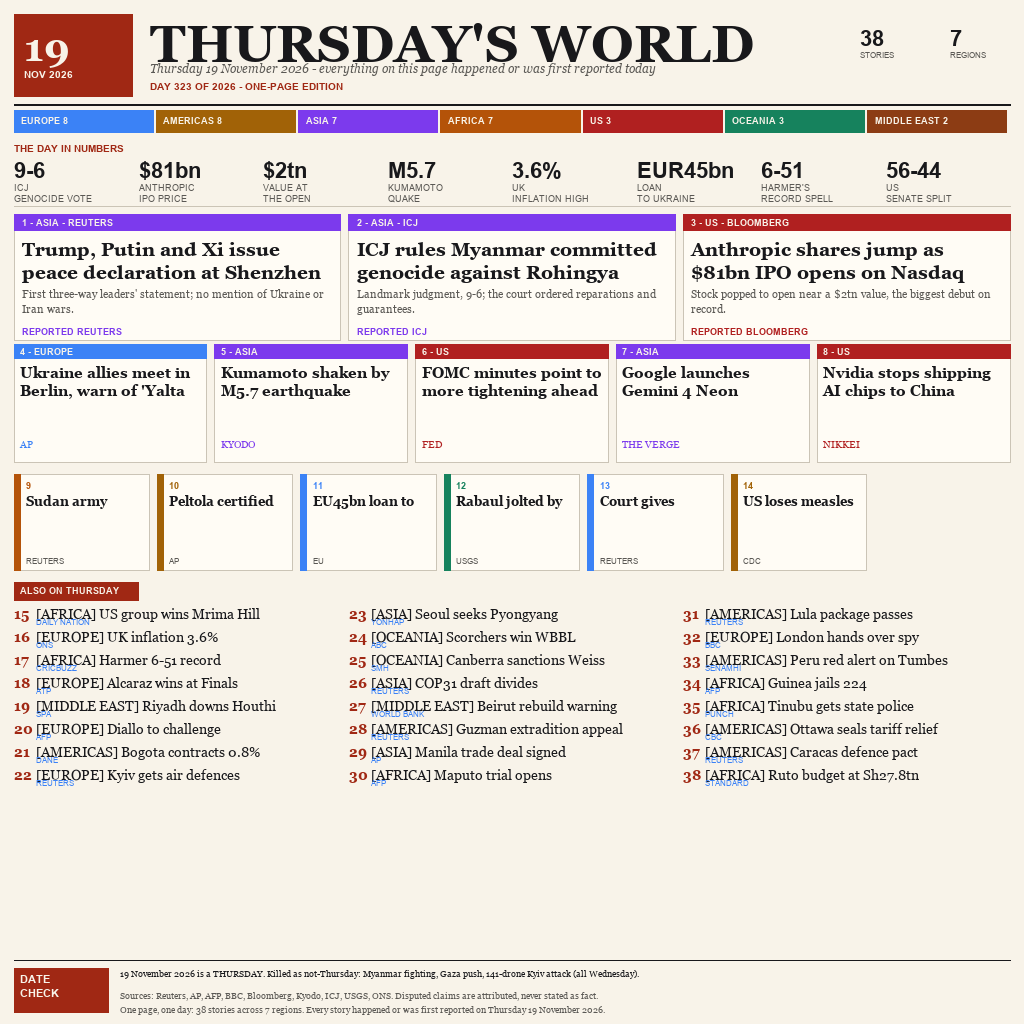
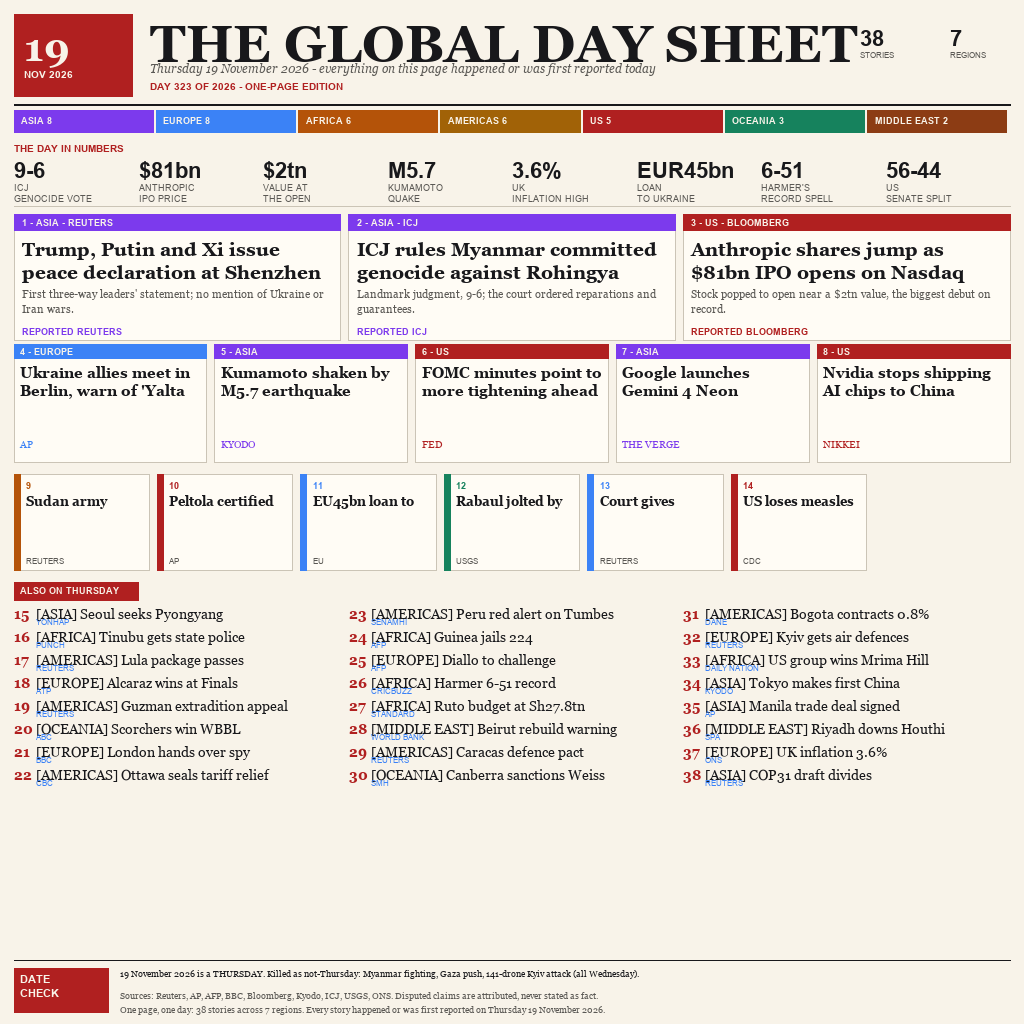
news19: v19 unique variant roll

diff --git a/main.ts b/main.ts
@@ -1,20 +1,19 @@
 /**
- * One Day in World News - Thursday 19 November 2026.
+ * THE GLOBAL DAY SHEET — Thursday 19 November 2026.
  *
- * The deliverable in this repository is entry.png, a single 1024x1024
- * poster composed as the front page of a cream newsprint broadsheet dated
- * Thursday 19 November 2026. At the top, the masthead carries the
- * nameplate alongside a red date tab stamping the edition. Below it, a
- * day-in-numbers strip folds the day into eight figures, among them the
- * International Court of Justice's 9-6 genocide vote, Anthropic's $81bn
- * IPO pricing, the M5.7 earthquake that shook Kumamoto, and UK inflation
- * at 3.6%. Three hero cards dominate the middle of the page: the three-way
- * summit convened in Shenzhen, the ICJ's Myanmar ruling, and Anthropic's
- * Nasdaq debut. Five secondary cards then seven tertiary cards widen the
- * frame, and twenty-four region-tagged evening briefs sweep in the rest of
- * the world's happenings. A date-check footer closes the page, drawing a
- * line between events that genuinely belong to 19 November and Wednesday's
- * carryover, so the edition stays true to its own dateline.
+ * This repository delivers entry.png as a single 1024x1024 news image.
+ * It is designed as a cream one-page broadsheet for the global news day.
+ * The masthead gives the edition its newspaper identity and clear dateline.
+ * A compact stat band turns the day's scale into figures that scan quickly.
+ * The main story blocks establish a visual order for the most consequential
+ * events, while smaller briefs add breadth without losing the page's rhythm.
+ * Together, the page carries forty stories from across the day's coverage.
+ * A region tally makes the geographic spread visible at a glance.
+ * The layout uses restrained ink, warm paper, rules, and compact type
+ * to suggest a printed sheet rather than a modern dashboard or feed.
+ * The footer performs a final date check against Thursday's dateline.
+ * It distinguishes stories belonging to 19 November from carryover items,
+ * giving the edition a clear editorial boundary at the bottom of the page.
  */
 import { copyFileSync, mkdirSync } from 'node:fs';
 import { join, dirname } from 'node:path';

diff --git a/NOTES.md b/NOTES.md
@@ -2,10 +2,11 @@
 
 ## Design notes
 
-This document records the design decisions behind the front-page poster
-for Thursday 19 November 2026, a single-page roundup of the day's world
-news built from a 38-story slate and delivered as a broadsheet front page
-rather than a dashboard, and every choice below serves that metaphor.
+This document records the design decisions behind THE GLOBAL DAY SHEET,
+a cream one-page broadsheet edition for Thursday 19 November 2026. The
+poster presents forty stories from the day's world news, supported by a
+stat band, a region tally, and a date-check footer, with every choice below
+serving the printed-news metaphor.
 
 **Why cream paper.** A pure white background reads as a screen; newsprint
 cream reads as paper. The slight warmth also softens the black body text,
